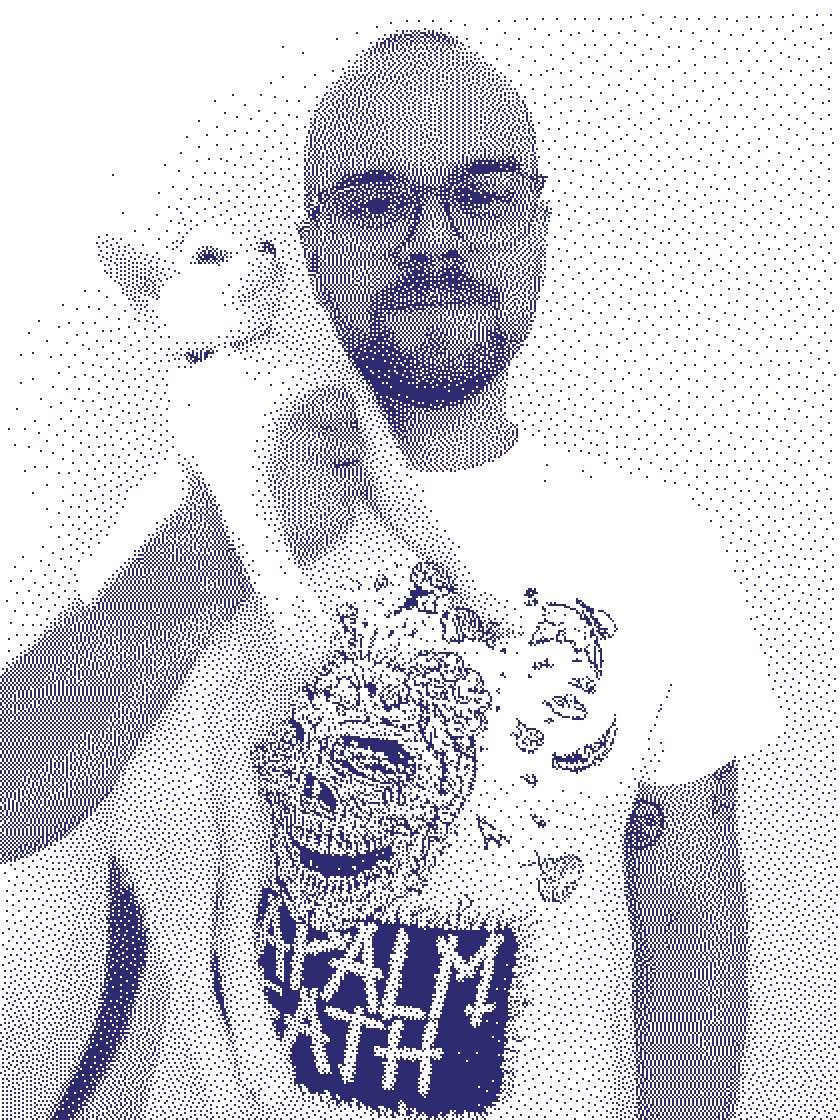
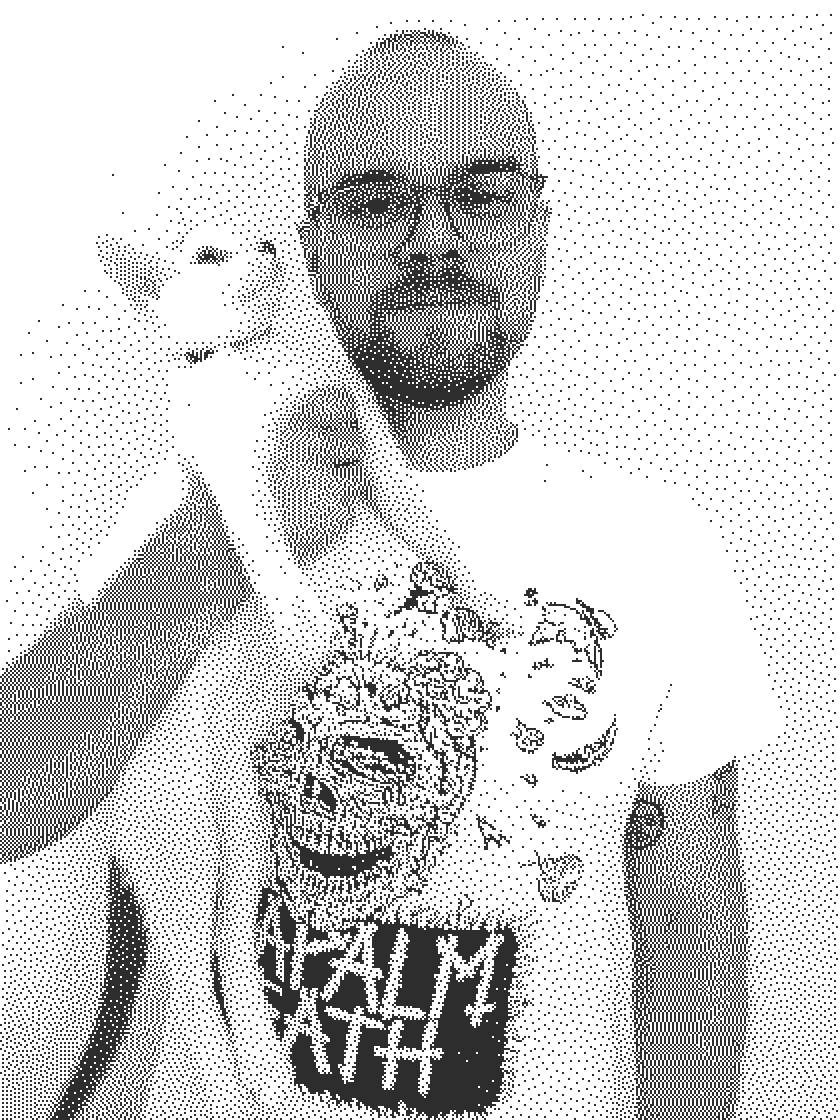
fixes

diff --git a/music.html b/music.html
@@ -23,11 +23,11 @@
 
 <div class="two">
 <article>
-<p><b><a href="index.html" style="text-decoration:none">mattcolewilson.com</a></b> <span  class="blink">→ music</span></small>
+<p><b><a href="index.html" style="text-decoration:none">mattcolewilson.com</a></b> <span class="blink">→ music</span></small>
 </article>
 
 <article>
-<p class="right"><a  href="index.html">work</a> / <a  href="about.html">about</a> / <a  href="resources.html">resources</a> / <a href="3d.html">3d</a> / <s>music</s> / <a href="links.html">links</a> / <a href="now.html">now</a></p>
+<p class="right"><a  href="index.html">work</a> / <a  href="about.html">about</a> / <a href="resources.html">resources</a> / <a href="3d.html">3d</a> / <s>music</s> / <a href="links.html">links</a> / <a href="now.html">now</a></p>
 </article>
 
 </div>
@@ -110,7 +110,7 @@ Label: N/A<br></p>
 <h2>SNVN –<br>Phytolith</h2>
 <p>Genre: Electronic</br>
 Released: March 2025<br>
-Label: Fiadh Productions<br></p>
+Label: N/A<br></p>
 <i>Electronic music that sometimes gets into rock territory.</i>
 <p><iframe style="border: 0; width: 85%; max-width: 400px; height: 42px;" src="https://bandcamp.com/EmbeddedPlayer/album=441909590/size=small/bgcol=ffffff/linkcol=0687f5/artwork=none/transparent=true/" seamless><a href="https://snvn.bandcamp.com/album/phytolith">Phytolith by SNVN</a></iframe></p>
 <p><a href="https://snvn.bandcamp.com/album/phytolith" target="_blank">Listen on Bandcamp</a></p>

diff --git a/index.html b/index.html
@@ -42,11 +42,11 @@ This site was coded while listening to Nine Inch Nails.
 
 <columns>
 <article>
-<p><b><a href="index.html" style="text-decoration:none">mattcolewilson.com</a></b> <span  class="blink">→ graphic design</span></p>
+<p><b><a href="index.html" style="text-decoration:none">mattcolewilson.com</a></b> <span class="blink">→ graphic design</span></p>
 </article>
 
 <article>
-<p class="right"><s>work</s> / <a  href="about.html">about</a> / <a  href="resources.html">resources</a> / <a href="3d.html">3d</a> / <a href="music.html">music</a> / <a href="links.html">links</a> / <a href="now.html">now</a></p>
+<p class="right"><s>work</s> / <a  href="about.html">about</a> / <a href="resources.html">resources</a> / <a href="3d.html">3d</a> / <a href="music.html">music</a> / <a href="links.html">links</a> / <a href="now.html">now</a></p>
 </article>
 
 </columns>

diff --git a/3d.html b/3d.html
@@ -23,11 +23,11 @@
 
 <div class="two">
 <article>
-<p><b><a href="index.html" style="text-decoration:none">mattcolewilson.com</a></b> <span  class="blink">→ the third dimension</span></p>
+<p><b><a href="index.html" style="text-decoration:none">mattcolewilson.com</a></b> <span class="blink">→ the third dimension</span></p>
 </article>
 
 <article>
-<p class="right"><a  href="index.html">work</a> / <a  href="about.html">about</a> / <a  href="resources.html">resources</a> / <s>3d</s> / <a href="music.html">music</a> / <a href="links.html">links</a> / <a href="now.html">now</a></p>
+<p class="right"><a  href="index.html">work</a> / <a  href="about.html">about</a> / <a href="resources.html">resources</a> / <s>3d</s> / <a href="music.html">music</a> / <a href="links.html">links</a> / <a href="now.html">now</a></p>
 </article>
 
 </div>

diff --git a/about.html b/about.html
@@ -38,11 +38,11 @@
 
 <columns>
 <article>
-<p><b><a href="index.html" style="text-decoration:none">mattcolewilson.com</a></b> <span  class="blink">→ a real human being</span></p>
+<p><b><a href="index.html" style="text-decoration:none">mattcolewilson.com</a></b> <span class="blink">→ a real human being</span></p>
 </article>
 
 <article>
-<p class="right"><a  href="index.html">work</a> / <s>about</s> / <a  href="resources.html">resources</a> / <a href="3d.html">3d</a> / <a href="music.html">music</a> / <a href="links.html">links</a> / <a href="now.html">now</a></p>
+<p class="right"><a  href="index.html">work</a> / <s>about</s> / <a href="resources.html">resources</a> / <a href="3d.html">3d</a> / <a href="music.html">music</a> / <a href="links.html">links</a> / <a href="now.html">now</a></p>
 </article>
 
 </columns>

diff --git a/links.html b/links.html
@@ -21,11 +21,11 @@
 
 <columns>
 <article>
-<p><b><a href="index.html" style="text-decoration:none">mattcolewilson.com</a></b> <span  class="blink">→ hyperlinks</span></p>
+<p><b><a href="index.html" style="text-decoration:none">mattcolewilson.com</a></b> <span class="blink">→ hyperlinks</span></p>
 </article>
 
 <article>
-<p class="right"><a  href="index.html">work</a> / <a href="about.html">about</a> / <a  href="resources.html">resources</a> / <a href="3d.html">3d</a> / <a href="music.html">music</a> / <s>links</s> / <a href="now.html">now</a></p>
+<p class="right"><a  href="index.html">work</a> / <a href="about.html">about</a> / <a href="resources.html">resources</a> / <a href="3d.html">3d</a> / <a href="music.html">music</a> / <s>links</s> / <a href="now.html">now</a></p>
 </article>
 
 </columns>

diff --git a/now.html b/now.html
@@ -23,11 +23,11 @@
 
 <columns>
 <article>
-<p><b><a href="index.html" style="text-decoration:none">mattcolewilson.com</a></b> <span  class="blink">→ now</span></p>
+<p><b><a href="index.html" style="text-decoration:none">mattcolewilson.com</a></b> <span class="blink">→ now</span></p>
 </article>
 
 <article>
-<p class="right"><a  href="index.html">work</a> / <a  href="about.html">about</a> / <a  href="resources.html">resources</a> / <a href="3d.html">3d</a> / <a href="music.html">music</a> / <a href="links.html">links</a> / <s>now</s></p>
+<p class="right"><a  href="index.html">work</a> / <a  href="about.html">about</a> / <a href="resources.html">resources</a> / <a href="3d.html">3d</a> / <a href="music.html">music</a> / <a href="links.html">links</a> / <s>now</s></p>
 </article>
 
 </columns>

diff --git a/resources.html b/resources.html
@@ -23,11 +23,11 @@
 
 <columns>
 <article>
-<p><b><a href="index.html" style="text-decoration:none">mattcolewilson.com</a></b> <span  class="blink">→ free stuff</span></p>
+<p><b><a href="index.html" style="text-decoration:none">mattcolewilson.com</a></b> <span class="blink">→ free stuff</span></p>
 </article>
 
 <article>
-<p class="right"><a  href="index.html">work</a> / <a  href="about.html">about</a> / <s>resources</s> / <a href="3d.html">3d</a> / <a href="music.html">music</a> / <a href="links.html">links</a> / <a href="now.html">now</a></p>
+<p class="right"><a  href="index.html">work</a> / <a href="about.html">about</a> / <s>resources</s> / <a href="3d.html">3d</a> / <a href="music.html">music</a> / <a href="links.html">links</a> / <a href="now.html">now</a></p>
 </article>
 
 </columns>

diff --git a/css/style.css b/css/style.css
@@ -26,8 +26,6 @@ div.logo {width: 55px; margin-left: auto;}
   position: fixed;
   top: 20%;
   right: 4%;  
-  -webkit-filter: grayscale(100%); /* Safari 6.0 - 9.0 */
-  filter: grayscale(100%);
 }
 
 .button {width: 88px;}

diff --git a/css/now.css b/css/now.css
@@ -81,4 +81,5 @@ columns {grid-template-columns: 1fr;}
 .right {text-align: left;}
 div.logo {margin-left: 0;}
 .avatar {display: none;}
+div.subnav {display: none;}
 }
